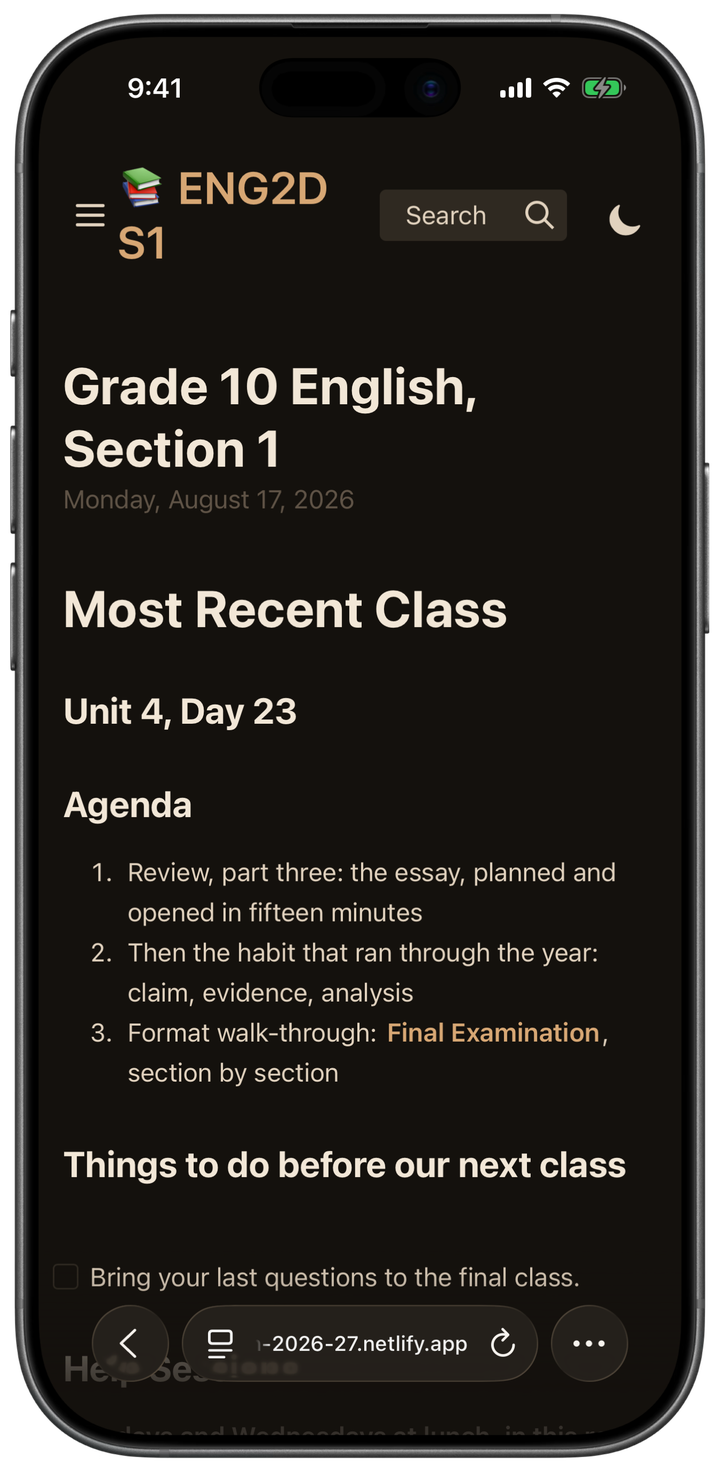
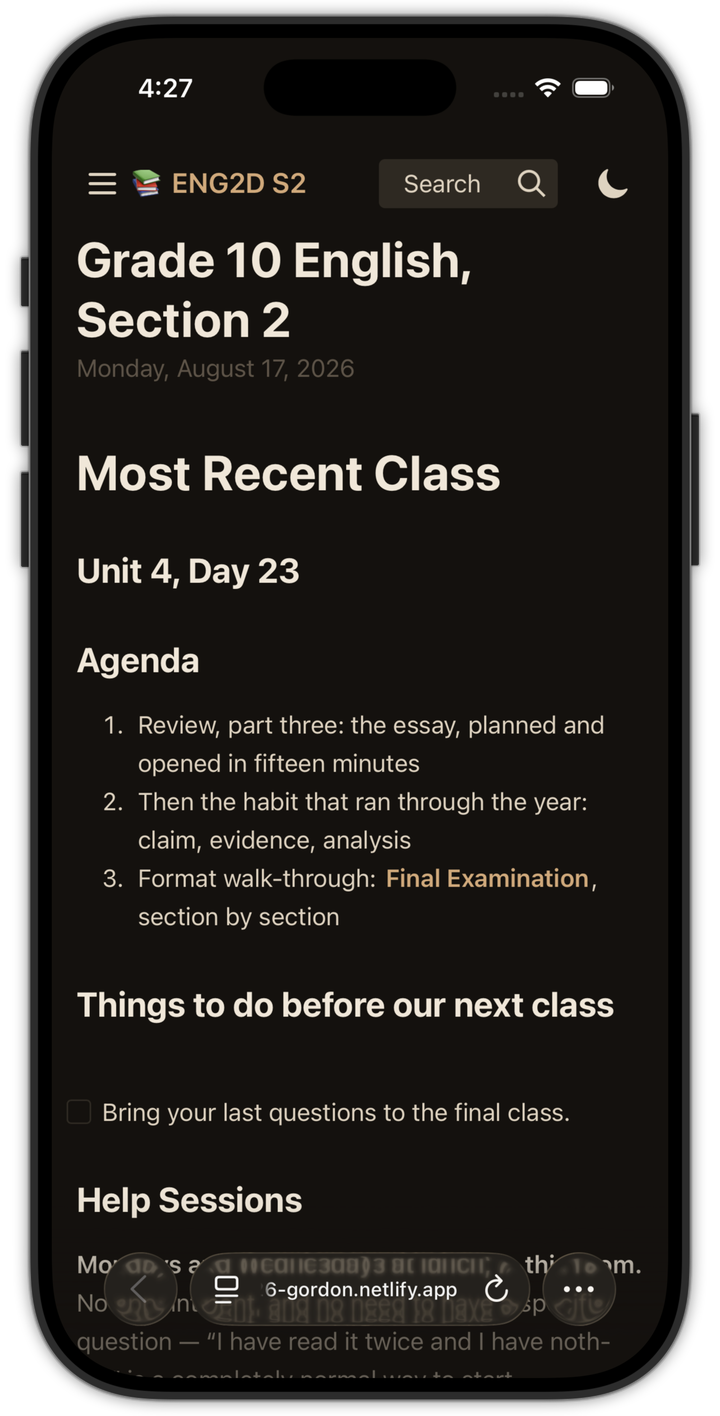
Update the phone screenshots from hand-taken iPhone 17 Pro captures
Russell captured both appearances himself in RocketSim; processed here
through the same prepare() pipeline the harness uses (720 px wide, PNG
plus WebP, transparent surround verified) rather than re-running the
capture. The features page picks up the new intrinsic size.

diff --git a/site/features/index.html b/site/features/index.html
@@ -183,7 +183,7 @@
       <source srcset="../img/site-phone-dark.png" data-win-srcset="../img/site-phone-windows-dark.png" media="(prefers-color-scheme: dark)">
       <source srcset="../img/site-phone-light.webp" data-win-srcset="../img/site-phone-windows-light.webp" type="image/webp">
       <img src="../img/site-phone-light.png" data-win-src="../img/site-phone-windows-light.png" alt="The same class website at phone width, with the navigation collapsed behind a button."
-           width="360" height="736" loading="lazy" decoding="async">
+           width="360" height="708" loading="lazy" decoding="async">
     </picture>
     <figcaption>The same site on a phone.</figcaption>
 </figure>
